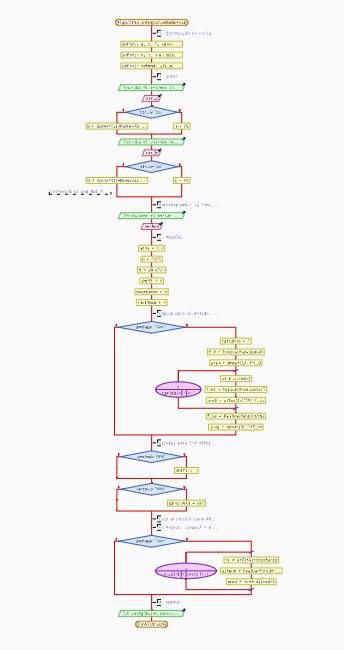
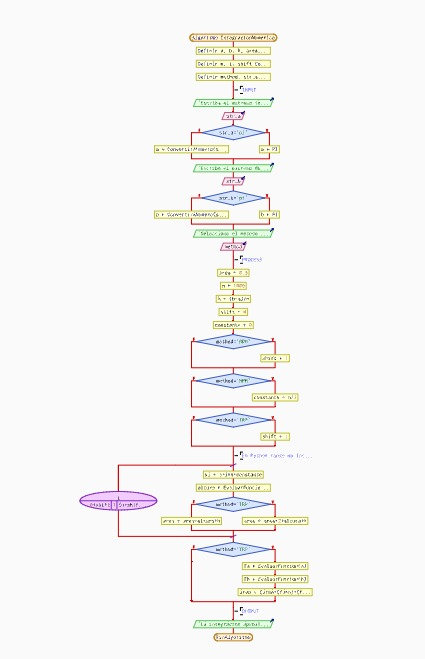
Añadiendo CW08: Python, Pseudocode y Flowchart

Changed region(s): [[0.1453, 0.0308, 0.843, 0.9846], [0.3198, 0.8923, 0.3488, 0.9231]]

diff --git a/CW08/Classwork#8_Python.py b/CW08/Classwork#8_Python.py
@@ -10,10 +10,10 @@ b = input( "Write the right endopoint of the interval: ")
 if "pi" in b:
     b = eval(b.replace("pi", str(math.pi)))
 else:
-    b = float(a)
+    b = float(b)
     
 f_x = input("Write the function to integrate")
-method = input("Select integration method (LRM/RRM/MPM)")
+method = input("Select integration method (LRM/RRM/MPM/TRP)")
 
 #PROCESS
 area = 0.0
@@ -21,35 +21,32 @@ n = 1000
 h = (b - a) / n
 shift = 0
 constant = 0
-variable = 0
-
-if method == "TRAP":
-    variable = 1
-    
-    f_0 = f_x.replace("x", f"({a})")
-    area += (h/2) * eval(f_0)
-    
-    for i in range(variable, n):
-        xi = a + (i * h)
-        f_xi = f_x.replace("x", f"({xi})")
-        area += (h/2) * 2 * eval(f_xi)
-        
-    f_xn = f_x.replace("x", f"({b})")
-    area += (h/2) * eval(f_xn) 
 
 if method == "RRM":
     shift = 1
     
 if method == "MPM":
     constant = h/2
-else:
-    pass
+
+if method == "TRP":
+    shift = 1
 
 for i in range(0 + shift, n + shift):
     xi = a + i * h + constant
     
-    height = eval(f_x.replace("x", str(xi)))
-    area += height * h
+    x = xi
+    height = eval(f_x)
+    if method == "TRP":
+        area += 2 * height * h
+    else:
+        area += height * h
+        
+if method == "TRP":
+    x = a
+    fa = eval(f_x)
+    x = b
+    fb = eval(f_x)
+    area = (area + (fa * h) + (fb * h)) / 2
     
 #OUTPUT
-print(f" The integration of {f_x} is {area:.4f}") 
+print(f" The integration of {f_x} is {area:.4f}")

diff --git a/CW08/Classwork8_Pseudocode.py b/CW08/Classwork8_Pseudocode.py
@@ -1,4 +1,4 @@
-# INPUT
+#INPUT
 Get a, b, f_x, method from user
 IF a contains "pi"
     a <- value of pi
@@ -12,29 +12,12 @@ ELSE
     b <- convert b to float
 ENDIF
 
-# PROCESS
+#PROCESS
 area <- 0.0
 n <- 1000
 h <- (b - a) / n
 shift <- 0
 constant <- 0
-variable <- 0
-
-IF method is equal "TRAP"
-    variable <- 1
-    
-    f_0 <- f_x(a)
-    area <- area + (h / 2) * f_0
-    
-    FOR i IN RANGE (variable, n) DO
-        xi <- a + (i * h)
-        f_xi <- f_x(xi)
-        area <- area + (h / 2) * 2 * f_xi
-    ENDFOR
-    
-    f_xn <- f_x(b)
-    area <- area + (h / 2) * f_xn
-ENDIF
 
 IF method is equal "RRM"
     shift <- 1
@@ -44,14 +27,27 @@ IF method is equal "MPM"
     constant <- h / 2
 ENDIF
 
-IF method is not equal "TRAP"
-    FOR i IN RANGE (0 + shift, n + shift) DO
-        xi <- a + (i * h) + constant
-        
-        height <- f_x(xi) 
-        area <- area + height * h
-    ENDFOR
+IF method is equal "TRP"
+    shift <- 1
 ENDIF
 
-# OUTPUT
+FOR i IN RANGE (0 + shift, n + shift) DO
+    xi <- a + i * h + constant
+    
+    height <- f_x (xi)
+    
+    IF method is equal "TRP"
+        area <- area + 2 * height * h
+    ELSE
+        area <- area + height * h
+    ENDIF
+ENDFOR
+
+IF method is equal "TRP"
+    fa <- f_x (a)
+    fb <- f_x (b)
+    area <- (area + (fa * h) + (fb * h)) / 2
+ENDIF
+
+#OUTPUT
 DISPLAY " The integration of " + f_x + " is " + area
